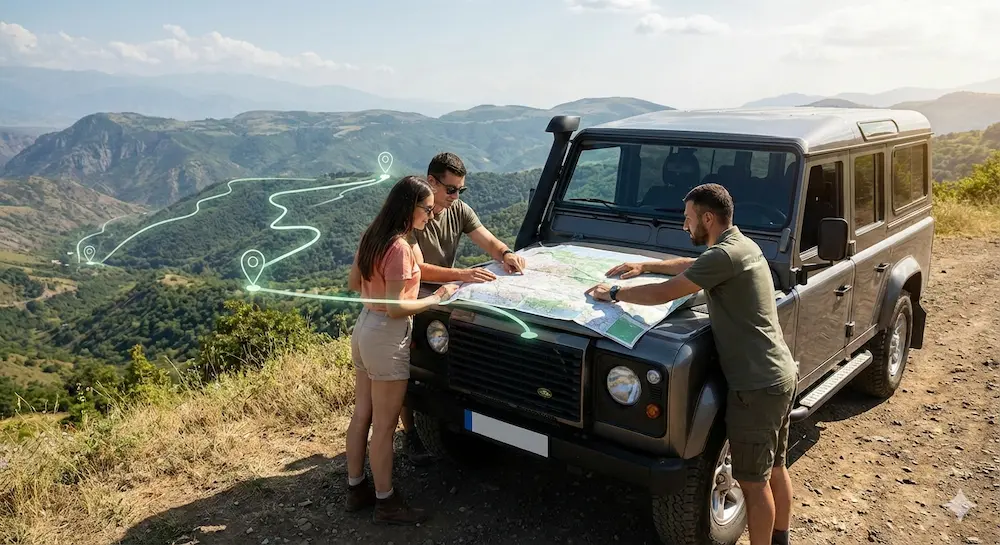
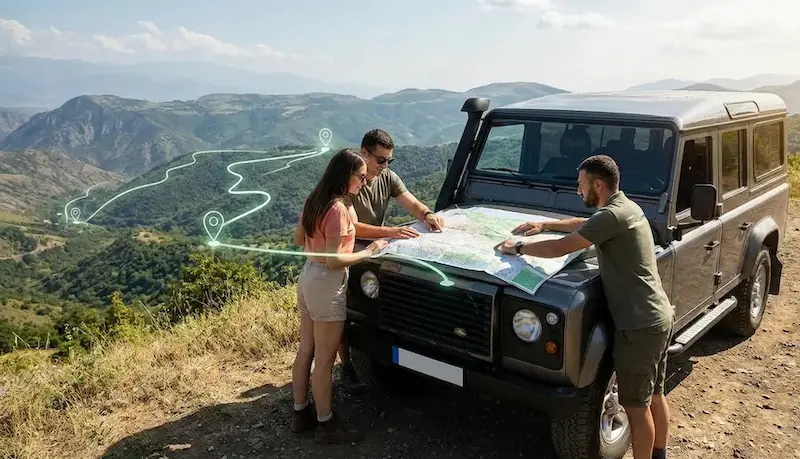
css correcting

diff --git a/src/Components/TourInfo.js b/src/Components/TourInfo.js
@@ -1,22 +1,42 @@
-import React, { useState } from 'react';
-import { Button, Container, Row, Col, ListGroup, Image, Carousel, Tab, Tabs } from 'react-bootstrap';
+import React, { useState, useEffect } from 'react';
+import { Button, Container, Row, Col, ListGroup, Image, Carousel, Tab, Tabs, Modal } from 'react-bootstrap';
 import { 
-  CheckCircle, XCircle, Clock, MapPin, Users, User, 
+  CheckCircle, XCircle, Clock, MapPin, Users, User, LogIn,
   Calendar, ArrowLeft, Map as MapIcon, ChevronDown, ChevronUp, Info 
 } from 'lucide-react';
+import { Link } from 'react-router-dom';
 import { useTranslation } from 'react-i18next';
 import { useNavigate } from 'react-router-dom';
 import "./TourInfo.css";
 
+import { supabase } from "../supabaseClient";
+
 const TourInfo = ({ tourData }) => {
   const { t } = useTranslation();
   const navigate = useNavigate();
+
+  const [currentUser, setCurrentUser] = useState(null);
+  const [showLoginModal, setShowLoginModal] = useState(false);
   
   // Состояние для раскрытия секций "Read More"
   const [expandedSection, setExpandedSection] = useState(null);
 
   const toggleSection = (index) => {
     setExpandedSection(expandedSection === index ? null : index);
+  };
+
+  useEffect(() => {
+    supabase.auth.getSession().then(({ data: { session } }) => {
+      setCurrentUser(session?.user ?? null);
+    });
+  }, []);
+
+  const handleBooking = () => {
+    if (!currentUser) {
+      setShowLoginModal(true);
+      return;
+    }
+    navigate(`/tours/booking/${tourData.id}`);
   };
 
 
@@ -323,7 +343,7 @@ const TourInfo = ({ tourData }) => {
               <Button 
                 variant="success" 
                 className="w-100 py-3 fw-bold booking-main-btn mb-3"
-                onClick={() => navigate(`/tours/booking/${tourData.id}`)}
+                onClick={handleBooking}   // ← было navigate(...)
               >
                 {t('tour_info_page.tour_book_button')}
               </Button>
@@ -406,6 +426,39 @@ const TourInfo = ({ tourData }) => {
           </Col>
         </Row>
       </Container>
+
+      <Modal
+        show={showLoginModal}
+        onHide={() => setShowLoginModal(false)}
+        centered
+        className="auth-alert-modal"
+      >
+        <Modal.Body className="p-4 text-center">
+          <div className="auth-alert-icon mb-3">
+            <LogIn size={32} strokeWidth={2.5} />
+          </div>
+          <h4 className="fw-bold mb-2">
+            {t('tour_info_page.login_required_title', 'Authentication Required')}
+          </h4>
+          <p className="text-muted mb-4">
+            {t('tour_info_page.please_login', 'Please login to book this tour.')}
+          </p>
+          <div className="d-grid gap-2">
+            <Link to="/login">
+              <Button variant="success" className="py-2 fw-bold w-100">
+                {t('auth_page.btn_login', 'Login')}
+              </Button>
+            </Link>
+            <Button
+              variant="light"
+              className="py-2 text-muted"
+              onClick={() => setShowLoginModal(false)}
+            >
+              {t('auth_page.cancel', 'Maybe later')}
+            </Button>
+          </div>
+        </Modal.Body>
+      </Modal>
     </div>
   );
 };

diff --git a/src/specialPage/SpecialPage.jsx b/src/specialPage/SpecialPage.jsx
@@ -5,7 +5,7 @@ import { Container, Row, Col, Form, Modal, Button, Accordion, Alert, Spinner } f
 import NavbarCustom from "../Components/Navbar";
 import Footer from "../Components/Footer";
 import { Map, Bus, BookOpen, Utensils, Send, CheckCircle, GraduationCap,
-   Plus, Trash2, FileText, MapPin, ChevronLeft, ChevronRight, MessageCircle, Mail } from "lucide-react";
+   Plus, Trash2, FileText, MapPin, ChevronLeft, ChevronRight } from "lucide-react";
 import emailjs from '@emailjs/browser';
 import customTourBuilderImg from "./images/Custom-Tour-Builder.webp"
 import "./SpecialPage.css";
@@ -307,24 +307,32 @@ function SpecialPage() {
               </div>
 
               {/* === БЛОК ПРЯМОЙ СВЯЗИ === */}
-                <div className="sp-direct-contact-box">
-                  <div className="sp-direct-content">
-                    <div className="sp-direct-text">
-                      <h4>{t("special.direct.title", "Have more questions?")}</h4>
-                      <p>{t("special.direct.desc", "Skip the form and reach us directly via your favorite platform.")}</p>
-                    </div>
-                    <div className="sp-direct-actions">
-                      <a href="https://wa.me/yournumber" target="_blank" rel="noreferrer" className="sp-action-link whatsapp">
-                        <MessageCircle size={20} />
-                        <span>WhatsApp</span>
-                      </a>
-                      <a href="mailto:[email redacted]" className="sp-action-link email">
-                        <Mail size={20} />
-                        <span>Email</span>
-                      </a>
-                    </div>
+              <div className="sp-direct-contact-box">
+                <div className="sp-direct-content">
+                  <div className="sp-direct-text">
+                    <h4>{t("special.direct.title", "Have more questions?")}</h4>
+                    <p>{t("special.direct.desc", "Skip the form and reach us directly via your favorite platform.")}</p>
+                  </div>
+                  <div className="sp-direct-actions">
+                    <a href="https://wa.me/37495283022" target="_blank" rel="noreferrer" className="sp-action-link whatsapp">
+                      <i className="fab fa-whatsapp" style={{ fontSize: '1.1rem' }} />
+                      <span>WhatsApp</span>
+                    </a>
+                    <a href="https://t.me/parmanitour" target="_blank" rel="noreferrer" className="sp-action-link telegram">
+                      <i className="fab fa-telegram" style={{ fontSize: '1.1rem' }} />
+                      <span>Telegram</span>
+                    </a>
+                    <a href="viber://chat?number=%2B37495283022" className="sp-action-link viber">
+                      <i className="fab fa-viber" style={{ fontSize: '1.1rem' }} />
+                      <span>Viber</span>
+                    </a>
+                    <a href="mailto:[email redacted]" className="sp-action-link email">
+                      <i className="fas fa-envelope" style={{ fontSize: '1.1rem' }} />
+                      <span>Email</span>
+                    </a>
                   </div>
                 </div>
+              </div>
               {/* {CustomFAQ()} */}
               <CustomFAQ t={t} />
             </div>

diff --git a/src/specialPage/SpecialPage.css b/src/specialPage/SpecialPage.css
@@ -349,6 +349,25 @@
   background: #f0f4ff;
   color: #3498db;
 }
+.sp-action-link.telegram {
+  background: #e8f4fc;
+  color: #229ed9;
+}
+
+.sp-action-link.telegram:hover {
+  background: #229ed9;
+  color: #fff;
+}
+
+.sp-action-link.viber {
+  background: #f0eefe;
+  color: #7360f2;
+}
+
+.sp-action-link.viber:hover {
+  background: #7360f2;
+  color: #fff;
+}
 
 .sp-action-link.email:hover {
   background: #3498db;

diff --git a/src/contactPage/ContactPage.jsx b/src/contactPage/ContactPage.jsx
@@ -2,7 +2,7 @@ import React, { useState, useEffect, useRef } from "react";
 import Footer from "../Components/Footer";
 import { Container, Row, Col, Card, Accordion, Form, Button, Spinner, Alert, Modal } from "react-bootstrap";
 import { FaWhatsapp, FaTelegramPlane, FaInstagram, FaMapMarkerAlt, FaClock, FaPhoneAlt,
-   FaViber, FaFacebook, FaTiktok, FaYoutube } from 'react-icons/fa';
+   FaViber, FaFacebook, FaTiktok, FaYoutube, FaEnvelope } from 'react-icons/fa';
 import NavbarCustom from "../Components/Navbar";
 import { useTranslation } from "react-i18next";
 import emailjs from '@emailjs/browser';
@@ -69,10 +69,9 @@ function ContactPage() {
                     <a href="viber://chat?number=%2B37495283022" target="_blank" rel="noreferrer" className="tour-social-btn tour-btn-viber">
                       <FaViber className="me-2" /> Viber
                     </a>
-                    
-                    {/* <a href="https://instagram.com/your_profile" target="_blank" rel="noreferrer" className="tour-social-btn tour-btn-ig">
-                      <FaInstagram className="me-2" /> Instagram
-                    </a> */}
+                    <a href="mailto:[email redacted]" target="_blank" rel="noreferrer" className="tour-social-btn tour-btn-mail">
+                      <FaEnvelope className="me-2" /> Email
+                    </a>
                   </div>
                 </Card.Body>
               </Card>
@@ -80,14 +79,7 @@ function ContactPage() {
               {/* Контакты */}
               <Card className="border-0 shadow-sm tour-side-card tour-bg-mint">
                 <Card.Body className="p-4">
-                  <div className="d-flex mb-3 align-items-start">
-                    <div className="tour-icon-circle me-3"><FaMapMarkerAlt /></div>
-                    <div>
-                      <h6 className="fw-bold mb-0">{t("contact_page.office", "Офис")}</h6>
-                      <small className="text-muted">Tsaghkadzor, Armenia</small>
-                    </div>
-                  </div>
-                  <div className="d-flex mb-3 align-items-start">
+                  <div className="d-flex mb-2 align-items-start">
                     <div className="tour-icon-circle me-3"><FaPhoneAlt /></div>
                     <div>
                       <h6 className="fw-bold mb-0">{t("contact_page.phone", "Телефон")}</h6>

diff --git a/src/contactPage/ContactPage.css b/src/contactPage/ContactPage.css
@@ -14,7 +14,8 @@
 /* ── HERO ─────────────────────────────────────────────────── */
 .tour-contact-page-root .tour-hero-header {
   background: linear-gradient(180deg, #ffffff 0%, var(--tour-light-mint) 100%);
-  padding: 60px 0;
+  padding: 55px 0;
+  padding-bottom: 40px;
   border-bottom: 1px solid #e0eee0;
 }
 
@@ -81,6 +82,10 @@
 .tour-contact-page-root .tour-btn-viber { 
   background-color: #7360F2 !important; 
   box-shadow: 0 4px 12px rgba(115, 96, 242, 0.25) !important; 
+}
+.tour-contact-page-root .tour-btn-mail { 
+  background-color: #4A90E2 !important; 
+  box-shadow: 0 4px 12px rgba(74, 144, 226, 0.25) !important; 
 }
 .tour-contact-page-root .tour-social-btn:hover { filter: brightness(1.1); color: white !important; }
 